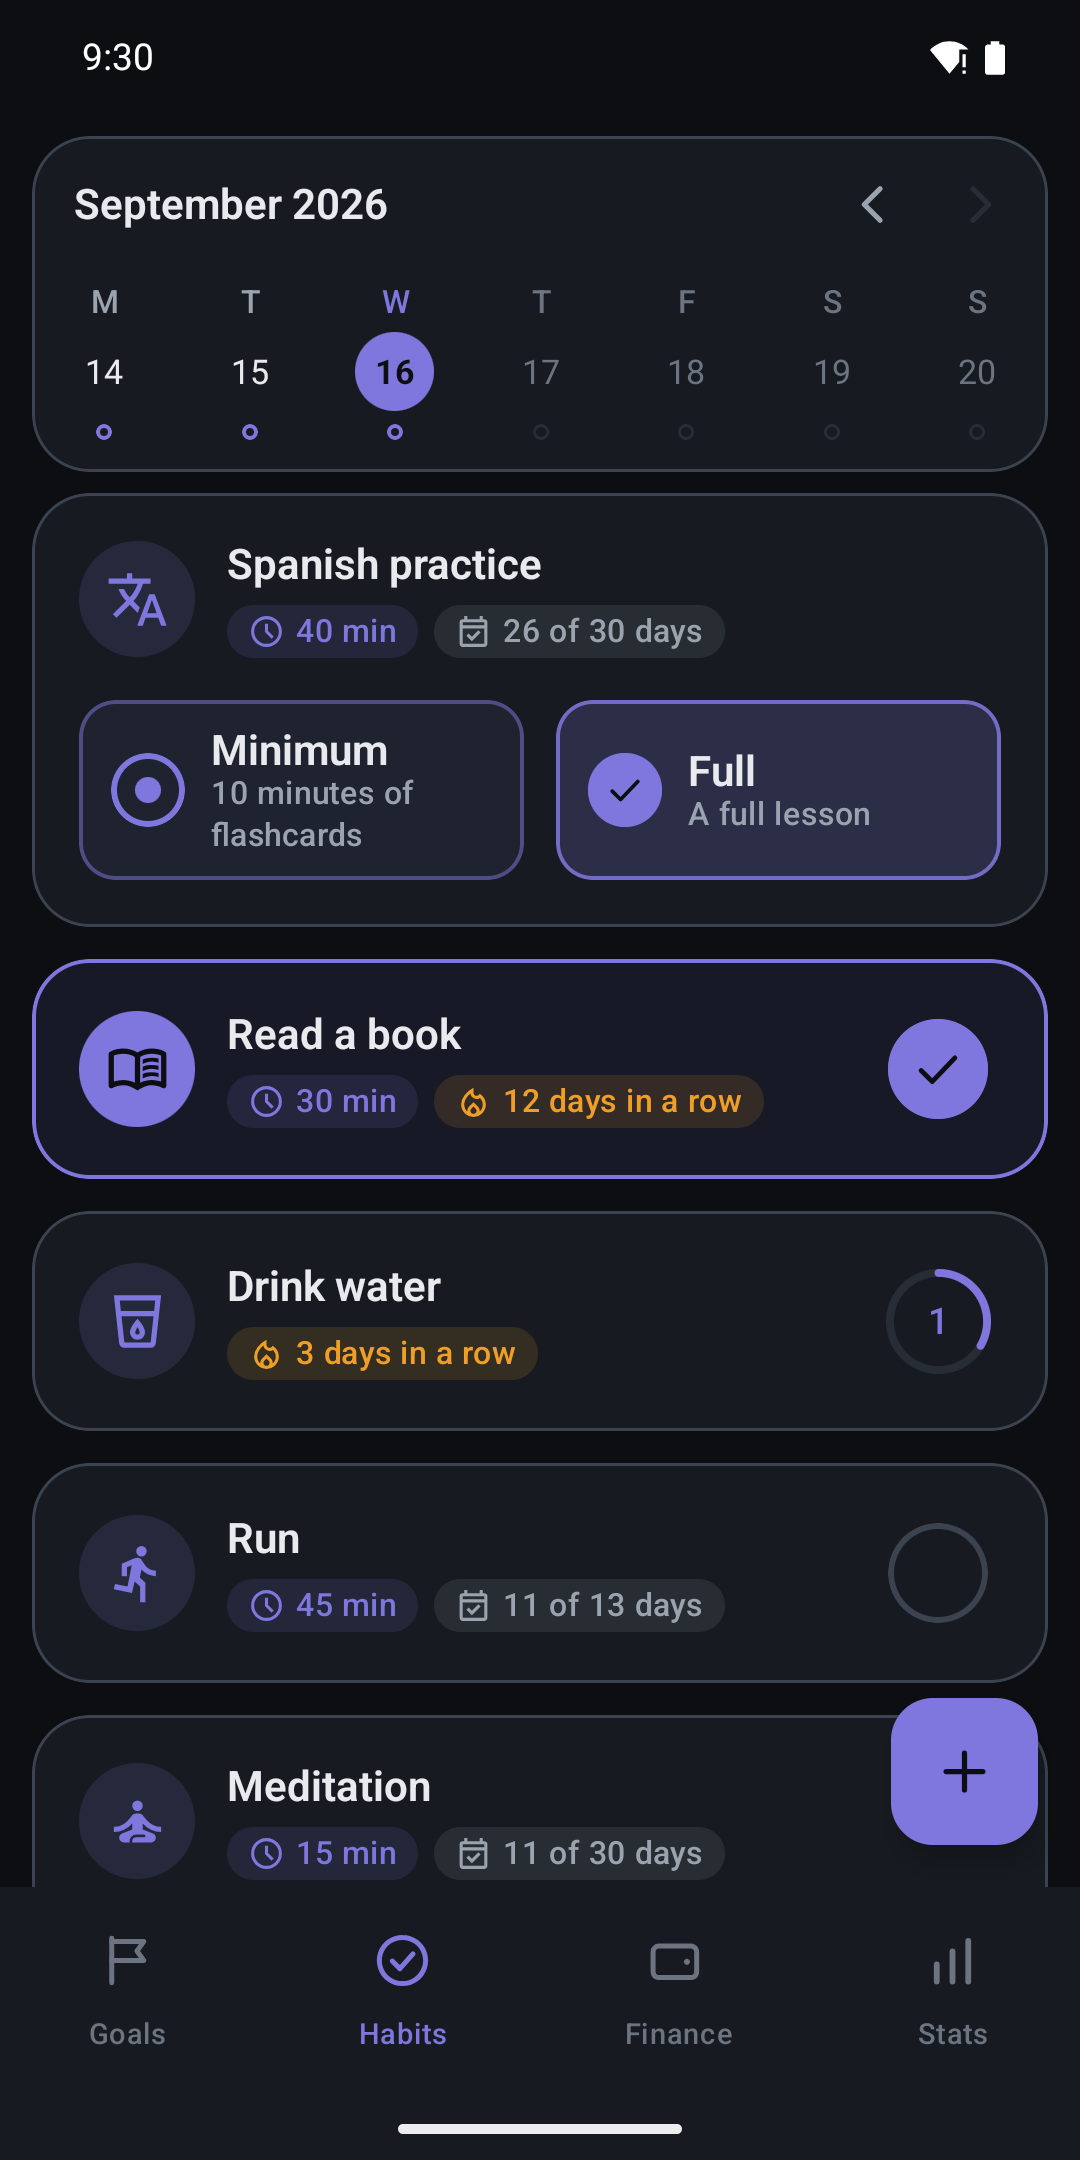
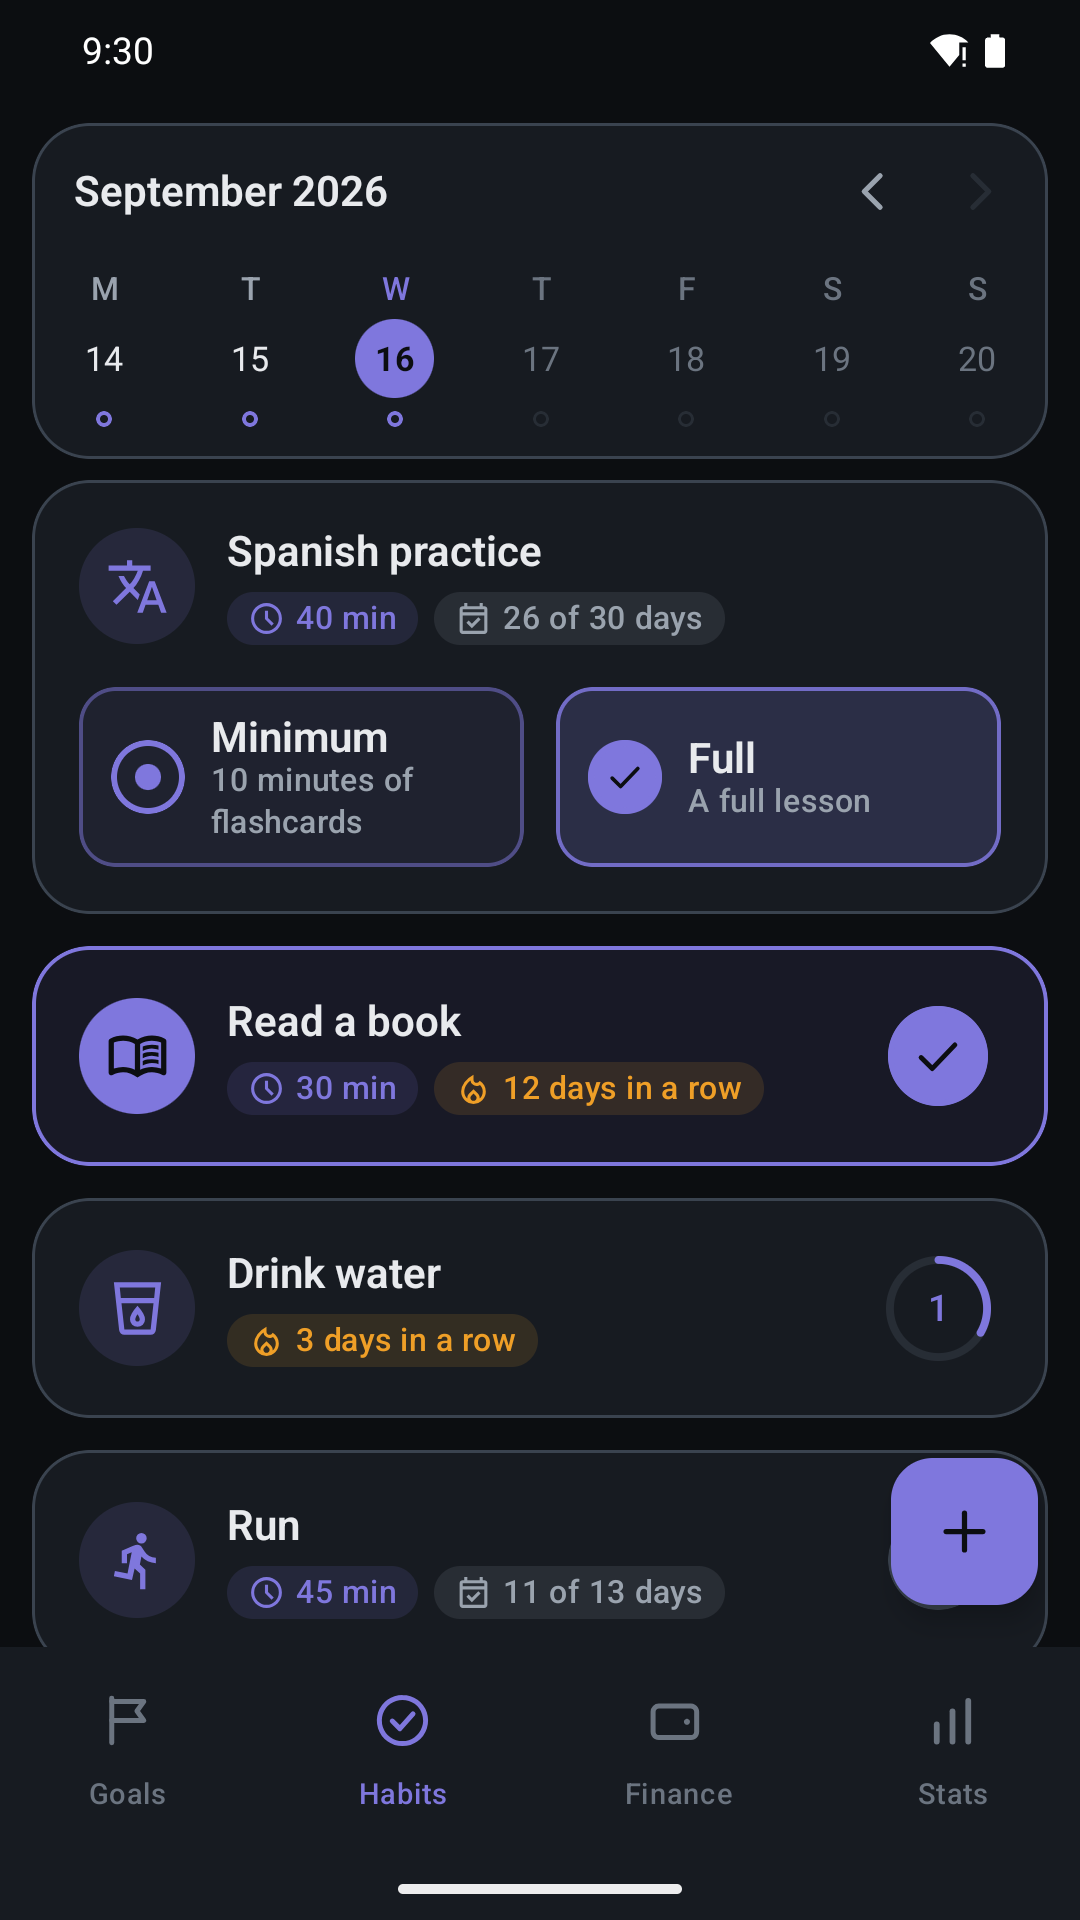
Скриншоты магазина в формате 9:16

diff --git a/docs/play/store-listing.md b/docs/play/store-listing.md
@@ -8,7 +8,7 @@
 Графика лежит рядом:
 - значок 512×512: `play_icon_512.png` (один на все языки);
 - обложка 1024×500: `feature_graphic_1024x500.png` (английская, основная), `feature_graphic_ru.png`, `feature_graphic_nl.png`, `feature_graphic_de.png`, `feature_graphic_fr.png`;
-- скриншоты телефона 1080×2160: `screenshots/en/` (основные, по порядку 01–06) и `screenshots/ru/` для русской страницы. Для нидерландской, немецкой и французской страниц Google покажет английские.
+- скриншоты телефона 1080×1920 (Google требует 9:16): `screenshots/en/` (основные, по порядку 01–06) и `screenshots/ru/` для русской страницы. Для нидерландской, немецкой и французской страниц Google покажет английские.
 
 ---
 
